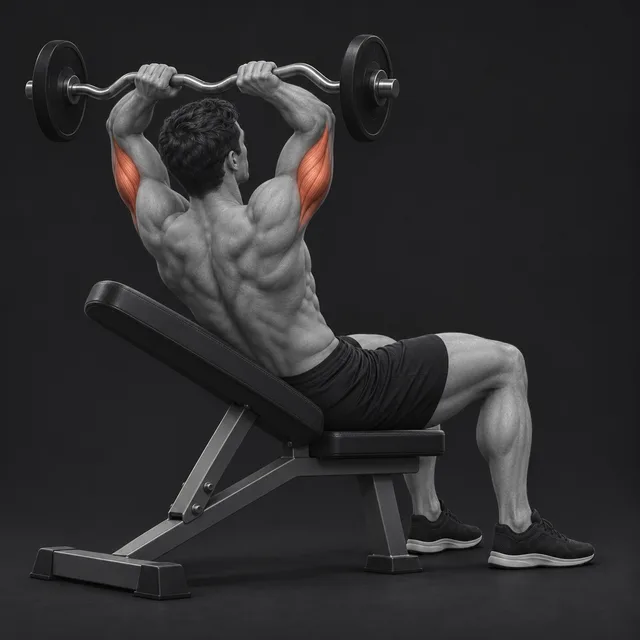
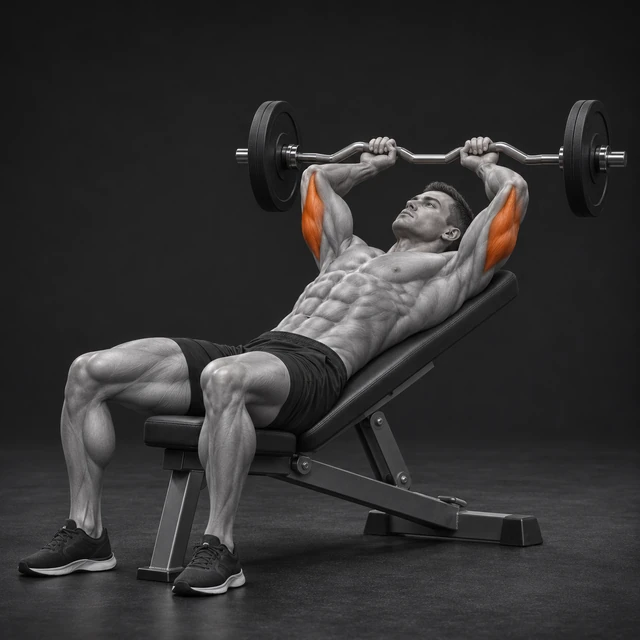
fix(training): correct exercise illustrations and picker tests

diff --git a/tests/training-live-session-ui.test.tsx b/tests/training-live-session-ui.test.tsx
@@ -1070,8 +1070,9 @@ describe("Live training session mobile UI", () => {
     const view = render(<SessionClient sessionId={42} />);
     const pickerOpener = await screen.findByRole("button", { name: "Додати вправу" });
     await user.click(pickerOpener);
-    const picker = await screen.findByRole("dialog", { name: "Додати вправу" });
-    await user.selectOptions(await screen.findByLabelText("Вправа з каталогу"), "9");
+    const picker = await screen.findByRole("dialog", { name: "Каталог вправ" });
+    await user.click(within(picker).getByRole("button", { name: /^Груди/ }));
+    await user.click(within(picker).getByRole("button", { name: /Віджимання від ручок/ }));
     await user.selectOptions(screen.getByLabelText("Тип опору"), RESISTANCE.BODYWEIGHT);
     await user.click(within(picker).getByRole("button", { name: "Додати вправу" }));
 
@@ -1136,23 +1137,29 @@ describe("Live training session mobile UI", () => {
     render(<SessionClient sessionId={42} />);
     const opener = await screen.findByRole("button", { name: "Додати вправу" });
     await user.click(opener);
-    let dialog = await screen.findByRole("dialog", { name: "Додати вправу" });
+    let dialog = await screen.findByRole("dialog", { name: "Каталог вправ" });
     const cancel = within(dialog).getByRole("button", { name: "Скасувати" });
-    await waitFor(() => expect(document.activeElement).toBe(cancel));
+    const search = within(dialog).getByRole("searchbox", { name: "Пошук усіх вправ" });
+    const resistance = within(dialog).getByLabelText("Тип опору");
+    await waitFor(() => expect(document.activeElement).toBe(search));
     expect(opener.parentElement?.hasAttribute("inert")).toBe(true);
     expect(within(dialog).getByRole("status").textContent).toContain("Завантаження каталогу");
 
     await user.tab();
+    expect(document.activeElement).toBe(resistance);
+    await user.tab();
     expect(document.activeElement).toBe(cancel);
     await user.tab({ shift: true });
-    expect(document.activeElement).toBe(cancel);
+    expect(document.activeElement).toBe(resistance);
+    await user.tab({ shift: true });
+    expect(document.activeElement).toBe(search);
     await user.keyboard("{Escape}");
-    await waitFor(() => expect(screen.queryByRole("dialog", { name: "Додати вправу" })).toBeNull());
+    await waitFor(() => expect(screen.queryByRole("dialog", { name: "Каталог вправ" })).toBeNull());
     expect(document.activeElement).toBe(opener);
     expect(opener.parentElement?.hasAttribute("inert")).toBe(false);
 
     await user.click(opener);
-    dialog = await screen.findByRole("dialog", { name: "Додати вправу" });
+    dialog = await screen.findByRole("dialog", { name: "Каталог вправ" });
     expect(catalogRequestIndex).toBe(2);
     pendingRequests[0]!.resolve(Response.json({ exercises: [{
       id: 9,
@@ -1163,14 +1170,14 @@ describe("Live training session mobile UI", () => {
       muscleMapping: null,
     }] }));
     await waitFor(() => expect(within(dialog).getByRole("status")).toBeTruthy());
-    expect(within(dialog).queryByLabelText("Вправа з каталогу")).toBeNull();
+    expect(within(dialog).getByRole("status").textContent).toContain("Завантаження каталогу");
 
     await user.keyboard("{Escape}");
-    await waitFor(() => expect(screen.queryByRole("dialog", { name: "Додати вправу" })).toBeNull());
+    await waitFor(() => expect(screen.queryByRole("dialog", { name: "Каталог вправ" })).toBeNull());
     expect(document.activeElement).toBe(opener);
 
     await user.click(opener);
-    dialog = await screen.findByRole("dialog", { name: "Додати вправу" });
+    dialog = await screen.findByRole("dialog", { name: "Каталог вправ" });
     expect(catalogRequestIndex).toBe(3);
     pendingRequests[1]!.reject(new Error("catalog unavailable after close"));
     await waitFor(() => expect(within(dialog).getByRole("status")).toBeTruthy());
@@ -1183,19 +1190,10 @@ describe("Live training session mobile UI", () => {
       archivedAt: null,
       muscleMapping: null,
     }] }));
-    const catalogSelect = await within(dialog).findByLabelText("Вправа з каталогу");
-    expect(catalogSelect).toBeTruthy();
-    await user.selectOptions(catalogSelect, "10");
+    await user.click(await within(dialog).findByRole("button", { name: /^Усі вправи/ }));
+    await user.click(await within(dialog).findByRole("button", { name: /Підтягування/ }));
     const addButton = within(dialog).getByRole("button", { name: "Додати вправу" });
     expect((addButton as HTMLButtonElement).disabled).toBe(false);
-    await user.tab();
-    await user.tab();
-    await user.tab();
-    expect(document.activeElement).toBe(addButton);
-    await user.tab();
-    expect(document.activeElement).toBe(catalogSelect);
-    await user.tab({ shift: true });
-    expect(document.activeElement).toBe(addButton);
     expect(mutations).not.toHaveBeenCalled();
   });
 
@@ -1222,26 +1220,35 @@ describe("Live training session mobile UI", () => {
     const opener = within(actionMenu).getByRole("button", { name: "Додати вправу" });
     await user.click(opener);
 
-    const picker = await screen.findByRole("dialog", { name: "Додати вправу" });
+    const picker = await screen.findByRole("dialog", { name: "Каталог вправ" });
     const cancel = within(picker).getByRole("button", { name: "Скасувати" });
-    await waitFor(() => expect(document.activeElement).toBe(cancel));
+    const search = within(picker).getByRole("searchbox", { name: "Пошук усіх вправ" });
+    const resistance = within(picker).getByLabelText("Тип опору");
+    await waitFor(() => expect(document.activeElement).toBe(search));
     expect(within(picker).getByRole("status")).toBeTruthy();
     await user.tab();
+    expect(document.activeElement).toBe(resistance);
+    await user.tab();
     expect(document.activeElement).toBe(cancel);
+    await user.tab();
+    expect(document.activeElement).toBe(within(picker).getByRole("button", { name: "Закрити каталог" }));
     await user.tab({ shift: true });
     expect(document.activeElement).toBe(cancel);
+    await user.tab({ shift: true });
+    expect(document.activeElement).toBe(resistance);
+    await user.tab({ shift: true });
+    expect(document.activeElement).toBe(search);
     expect(document.querySelector(`.${styles.workoutFrame}`)?.hasAttribute("inert")).toBe(true);
     catalogRequest.reject(new Error("catalog unavailable"));
     expect(await within(picker).findByRole("alert")).toBeTruthy();
-    expect(within(picker).getByRole("button", { name: "Скасувати" })).toBeTruthy();
-    const firstSelect = within(picker).getByLabelText("Вправа з каталогу");
+    const retry = within(picker).getByRole("button", { name: "Спробувати ще раз" });
     await user.tab();
-    expect(document.activeElement).toBe(firstSelect);
+    expect(document.activeElement).toBe(retry);
     await user.tab({ shift: true });
-    expect(document.activeElement).toBe(cancel);
+    expect(document.activeElement).toBe(search);
 
     await user.keyboard("{Escape}");
-    await waitFor(() => expect(screen.queryByRole("dialog", { name: "Додати вправу" })).toBeNull());
+    await waitFor(() => expect(screen.queryByRole("dialog", { name: "Каталог вправ" })).toBeNull());
     expect(document.activeElement).toBe(opener);
     expect(document.querySelector(`.${styles.workoutFrame}`)?.hasAttribute("inert")).toBe(false);
     expect((repsInput as HTMLInputElement).value).toBe("8");

diff --git a/tests/training-set-tonnage.test.ts b/tests/training-set-tonnage.test.ts
@@ -103,7 +103,7 @@ describe("external load accounting + ordinary tonnage", () => {
 
   it("covers every canonical stableKey with explicit load-accounting semantics", () => {
     const coverage = approvedExternalLoadAccountingCoverageV1();
-    expect(coverage).toEqual({ expected: 27, mapped: 27, missingStableKeys: [] });
+    expect(coverage).toEqual({ expected: 50, mapped: 50, missingStableKeys: [] });
     for (const identity of CANONICAL_EXERCISE_IDENTITIES) {
       expect(lookupExternalLoadAccountingV1(identity.stableKey)).not.toBeNull();
     }
